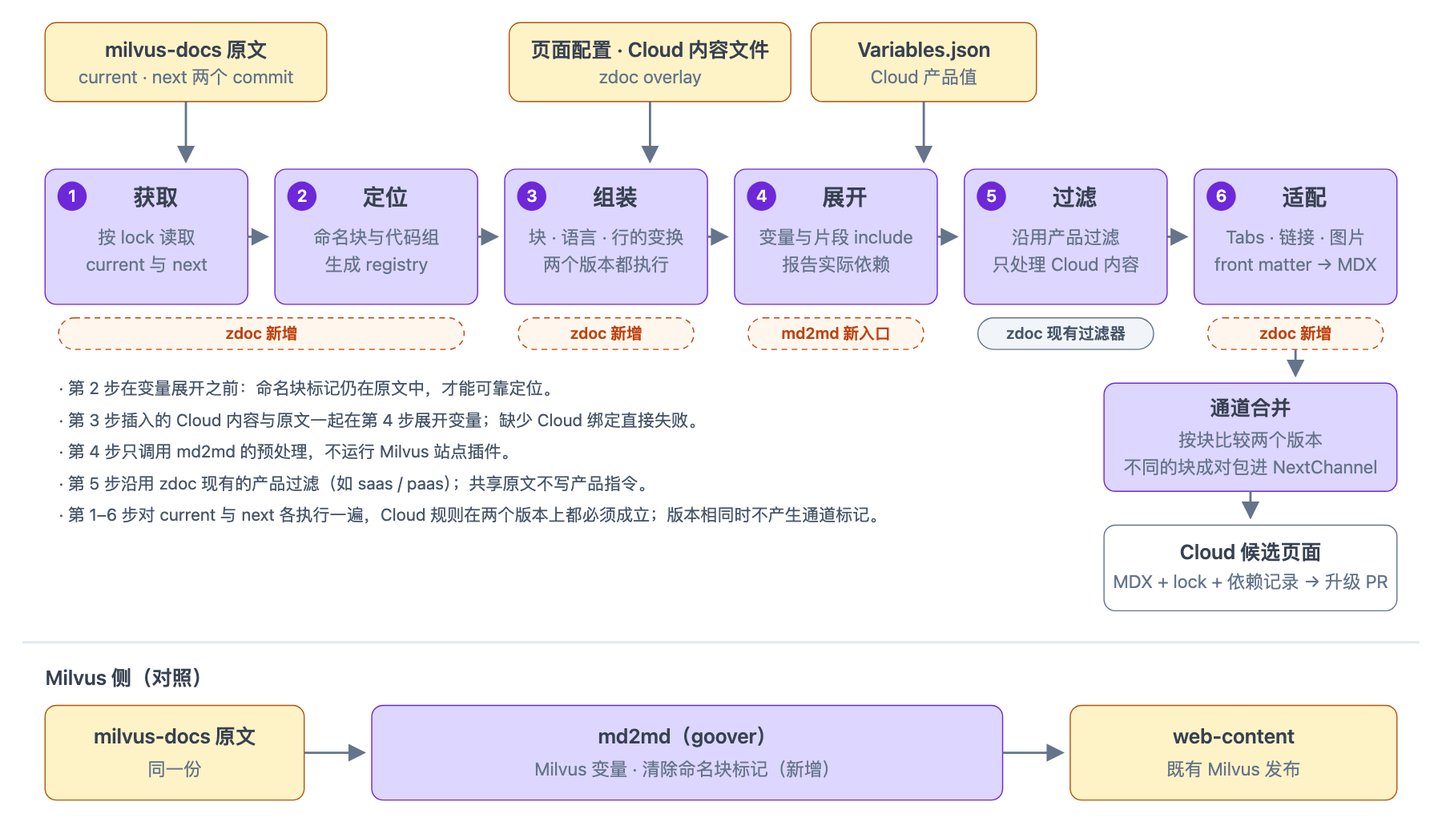
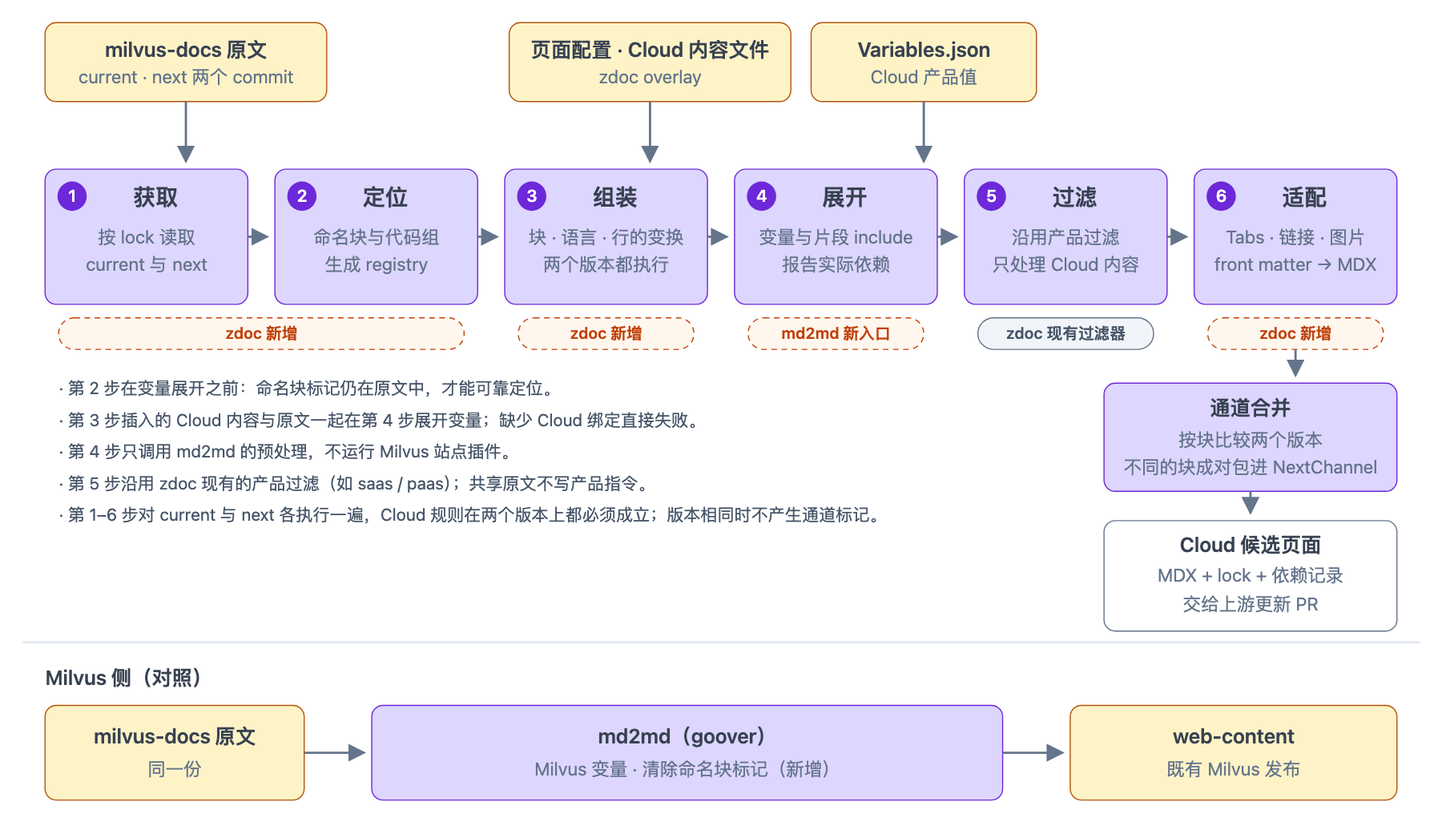
docs: restructure the proposal around the requirements
- Group the requirements into three sets with short titles and map each to a
  section in a table at the end of the overview.
- Reorder the body: one-source editing (3), controlled reuse in Cloud
  (4.1 content differences, 4.2 adopting upstream changes, 4.3 release timing),
  existing capabilities (5).
- Walk through figure 3 step by step and show file formats (YAML, Markdown,
  MDX); explain why zdoc calls the md2md preprocessing entry.
- Rename "upgrade PR" to "upstream update PR" across docs and figures.
- Rewrite section 4 for readability: conclusion first, edge cases as short
  lists, implementation rules moved to architecture.
- Turn section 7 into a compact agenda table with section links.

Changed region(s): [[0.7778, 0.6148, 0.9644, 0.7378]]

diff --git a/docs/proposal.md b/docs/proposal.md
@@ -2,11 +2,9 @@
 
 **第一次方案对齐会 · 讨论稿**
 
-本文说明为什么改、改完后大家怎样协作、工具链怎样接入，以及先从哪些页面试点。本次会议对齐方向与范围，需要拍板的事项见[第 6 节](#6-本次需要拍板的事项)；配置字段、接口签名等实现设计留到后续会议。
+本文说明为什么改、方案怎样逐条满足改造要求，以及先从哪些页面试点。本次会议对齐方向与范围，需要拍板的事项见[第 7 节](#7-本次需要拍板的事项)；配置字段、接口签名等实现设计留到后续会议。
 
 范围是 User Guide 等功能文档的共享与试点迁移。SDK Reference（原文仍在 web-content 维护）、全量迁移及飞书全面退役不属于首期。
-
-> **当前验证状态。** 方案尚未接入生产。Delete Entities 与 Filtered Search 两篇样例已在本地生成验证；真实 md2md / zdoc 接入、站点构建、发布保护与翻译接入尚未实现。现有工具链按固定源码修订核对，外部 Jenkins 的运行配置、生产权限和恢复保留策略仍待核验。依据见 [research/](../research/)。
 
 ## 1. 现状与改造要求
 
@@ -17,83 +15,112 @@
 图 1 · 现状：共享内容的三条维护路径
 - 三条路径中，只有 ③“把 Milvus 的修改抄回飞书”是虚线：它没有提醒，也没有固定检查，两边冲突时也没有约定以哪一侧为准。
 - 社区修订尚未抄回飞书时，下次从飞书导出可能把旧说明带回 Milvus，覆盖社区的修改。现有流程允许这种情况发生，尚未核实是否出现过事故。
-- 长期分开维护会造成漂移。例如 OpenAI embedding 页，两端的真实差异只有前提条件和凭证参数，但标题、示例语言和覆盖步骤也已经不同（见第 4 节）。
+- 长期分开维护会造成漂移。例如 OpenAI embedding 页，两端的真实差异只有前提条件和凭证参数，但标题、示例语言和覆盖步骤也已经不同（见[第 4.1 节](#41-内容差异cloud-的改动写在-zdocmilvus-原文只加命名块)）。
 
 ### 1.2 改造需要满足的要求
 
-1. **共享内容只有一个编辑源**，社区仍可直接提交 PR。
-2. **Cloud 自主决定何时采用上游修改**，而不是 Milvus 一合并就跟着变。
-3. **Milvus 已上线、Cloud 尚未上线的内容可以先隐藏**：沿用单镜像下的 Current / Next，UAT 可见，Prod 不显示。
-4. **能表达真实的产品差异**，例如前提条件、凭证参数和 Cloud 独有的示例。
-5. **上游新增或修改页面时，Cloud 能自动得知**，而不是靠人工发现。
-6. **不再经过飞书中转**，同时保留多语言代码、内容过滤、翻译、UAT / Prod 审核和恢复能力。
+要求分三组，共五条：
 
-后文的设计逐条对应这些要求。
+- **一处编辑**
 
-## 2. 目标：共享正文只改一处，Cloud 差异在 zdoc 维护
+  1. **milvus-docs 是唯一编辑源。** 共同内容只在这里修改；社区的修改提交到这里即可，不需要再人工抄回飞书。
+- **Cloud 可控地复用**
 
-**共享正文在 milvus-docs 维护一份，以 Git 为准；Cloud 的差异在 zdoc 中维护，飞书按页退出文档生产链。**
+  2. **Cloud 能表达差异。** 例如前提条件、凭证参数和 Cloud 独有的示例，而且不影响 Milvus 的内容。
+  3. **自动得知，自己决定采用。** 上游有修改时 Cloud 能自动得知，并决定是否采用、何时采用，而不是 Milvus 一合并就跟着变。
+  4. **未上线的功能不进 Prod。** Cloud 尚未上线的功能不出现在 Prod，但可以在 UAT 提前审阅。
+- **现有能力不丢**
 
-### 2.1 目标协作方式
+  5. **不经飞书，能力不丢。** 不再经过飞书中转，同时保留多语言代码、内容过滤、翻译、UAT / Prod 审核和恢复能力。
 
-![目标协作方式：社区贡献者和文档工程师向 milvus-docs 提交共享内容，Milvus 沿用既有发布；文档工程师在 zdoc 维护 Cloud 差异与配置。上游变化后，工具在 zdoc 自动发起升级 PR，附生成结果与影响提示；Cloud 审核后合并，新版本先在 UAT 可见，Cloud 发布时进入 Prod；暂不合并则保持已批准版本；需要修改时回到对应源文件。](./assets/collaboration-overview.png)
+这些要求在方案中的对应见[第 2 节](#2-方案总览共享正文只改一处cloud-差异在-zdoc-维护)的对应表。
+
+## 2. 方案总览：共享正文只改一处，Cloud 差异在 zdoc 维护
+
+共享正文在 milvus-docs 维护一份，以 Git 为准；Cloud 的差异在 zdoc 中维护，飞书按页退出文档生产链。
+
+下图是改造后的全貌，可与图 1 对照：两份正文合并为一份，靠人工抄回飞书的路径 ③ 不再需要。
+
+![目标协作方式：社区贡献者和文档工程师向 milvus-docs 提交共享内容，Milvus 沿用既有发布；文档工程师在 zdoc 维护 Cloud 差异与配置。上游变化后，工具在 zdoc 自动发起上游更新 PR，附生成结果与影响提示；Cloud 审核后合并，新版本先在 UAT 可见，Cloud 发布时进入 Prod；暂不合并则保持已批准版本；需要修改时回到对应源文件。](./assets/collaboration-overview.png)
 
 图 2 · 目标协作方式
-- **谁改哪里。** 共同内容改 milvus-docs，Cloud 差异和配置改 zdoc。同一位文档工程师可以两边都改；迁移后的页面不再在飞书编辑。
-- **Cloud 怎样控制发布时间（要求 2、5）。** 上游合并后，工具在 zdoc 自动发起升级 PR。合并后新版本先在 UAT 可见，Cloud 发布时才进入 Prod；不合并，两边都继续使用已批准的版本。
-- **共享原文由谁把关。** milvus-docs 的 PR 按 Milvus 既有流程审核，不需要 Cloud 参与。如果混入只适用于 Milvus 的内容，Cloud 在升级 PR 中处理：暂缓采用、请求改成两端通用的写法，或在 zdoc 中移除该段。Milvus 贡献说明届时补充共享页的写法。
+- **谁改哪里。** Cloud 文档工程师不再在飞书编辑迁移后的页面，改为在 Git 中提交 PR：共同内容改 milvus-docs，Cloud 差异和配置改 zdoc。同一位文档工程师可以两边都改；审核在 GitHub PR 中进行，结果在 PR 预览和 UAT 中查看。
+- **上游更新 PR 是 Cloud 的关口。** 上游修改不会直接进入 Cloud，要经 zdoc 中的上游更新 PR 审核后才采用（[第 4.2 节](#42-是否采用上游修改经更新-pr-审核)）。
 - **生成文件不能手改。** CI 按固定输入重新生成并比对；发现问题时，回到图中对应的源文件修改。
 
-### 2.2 Cloud 文档工程师的工作方式变化
+第 1.2 节的各项要求在方案中的对应如下，后文按这张表的顺序展开。
 
-| 事项 | 现在 | 迁移后 |
+| 要求（[第 1.2 节](#12-改造需要满足的要求)） | 方案怎样满足 | 详见 |
 |---|---|---|
-| 共享页的共同内容 | 在飞书编辑，再导出到 Milvus | 向 milvus-docs 提交 PR |
-| 共享页的 Cloud 差异 | 在飞书正文中直接改写 | 在 zdoc 维护页面配置和 Cloud 内容文件 |
-| 代码的产品差异、Current / Next 标记 | 写在飞书正文和多维表格中 | 共享页：代码行差异写在页面配置中，Current / Next 由工具按两个 commit 自动区分，不再手动标记；其余写法不变，写在 Git 中（见第 4 节） |
-| 审核与预览 | 飞书内审阅，UAT 查看结果 | GitHub PR 审核，PR 预览与 UAT 查看结果 |
-| Cloud 独有页 | 在飞书编辑 | 首期不变；终态在 zdoc 以 Markdown / MDX 维护 |
+| 1 milvus-docs 是唯一编辑源 | 共同内容只改 milvus-docs；Cloud 直接读取它的固定 commit，不再从飞书导出 | [第 3 节](#3-一处编辑cloud-直接读取-milvus-docs) |
+| 2 Cloud 能表达差异 | 差异写在 zdoc 的页面配置和 Cloud 内容文件中，原文只加命名块 | [4.1](#41-内容差异cloud-的改动写在-zdocmilvus-原文只加命名块) |
+| 3 自动得知，自己决定采用 | milvus-docs 合并后，工具自动发起上游更新 PR，Cloud 审核后合并 | [4.2](#42-是否采用上游修改经更新-pr-审核) |
+| 4 未上线的功能不进 Prod | Prod 与 UAT 各固定一个 commit，差异自动包进 `<NextChannel>` | [4.3](#43-何时上线prod-与-uat-各固定一个-commit) |
+| 5 不经飞书，能力不丢 | 校验、过滤、翻译、发布沿用 zdoc 现有流程；按页切换 | [第 5 节](#5-现有能力不丢沿用-zdoc-流程飞书按页退出) |
 
-**终态是 Cloud 文档全部在 Git 中维护。** 首期只迁移试点页。切换前需要为文档工程师准备 Markdown、配置写法和 PR 流程的说明，预览页提供跳转到源文件的编辑入口。
+## 3. 一处编辑：Cloud 直接读取 milvus-docs
 
-## 3. 工具链：在 zdoc 新增共享接入
-
-![目标工具链：Milvus 侧沿用 milvus-docs → md2md → web-content → milvus.io。zdoc 从 milvus-docs 直接读取固定版本原文，结合页面配置、Variables.json 和 Cloud 内容文件生成 Cloud 页面，经升级 PR 采用后进入 zdoc 既有的校验、过滤、Current / Next、翻译与发布流程。过渡期未迁移的飞书页和后续迁入的 Cloud 独有页也进入同一流程。虚线框标出新增工作的范围。](./assets/target-publication-chains.png)
+![目标工具链：Milvus 侧沿用 milvus-docs → md2md → web-content → milvus.io，md2md 新增两项能力：发布时清除命名块标记，以及供 zdoc 调用的预处理入口。zdoc 在 md2md 处理之前，按 commit 直接读取 milvus-docs 原文，结合页面配置（YAML）、Variables.json 和 Cloud 内容文件（Markdown）生成 Cloud 页面（MDX），生成时调用 md2md 的预处理，用 Cloud 的值展开变量与片段。生成结果在 zdoc 中经 PR 审核合并后，进入 zdoc 既有的校验、过滤、Current / Next、翻译与发布流程。过渡期未迁移的飞书页和后续迁入的 Cloud 独有页也进入同一流程。虚线框标出新增工作的范围。](./assets/target-publication-chains.png)
 
 图 3 · 目标工具链（待实施）
-- **读取点在 md2md 之前。** web-content 中的内容已经按 Milvus 的值展开了变量、清理了命名块标记，Cloud 从那里读取就无法绑定自己的值，也找不到需要差异处理的位置。所以 Cloud 直接读 milvus-docs，与 Milvus 发布链并行。
-- **新增工作只在虚线框内**：zdoc 的获取与生成，以及 md2md 的预处理入口和命名块标记清理。右侧的校验、过滤、Current / Next、翻译和发布沿用现有流程，只扩展 Git 输入（要求 3、6）。
-- **过渡期两种来源并存。** 未迁移的页面继续从飞书进入，已迁移的页面从 Git 进入，同一页任一时刻只有一个来源。
+
+图 3 按 ①–④ 的顺序读：
+
+- **① Milvus 侧流程不变。** milvus-docs 存放原文；[md2md](https://github.com/zilliztech/md2md) 展开变量与片段，并转换为 Milvus 站点格式；结果存入 web-content，再由 milvus.io 构建发布。md2md 只新增两项能力：发布时清除命名块标记，以及一个供 zdoc 调用的预处理入口。
+- **② Cloud 按 commit 读取 md2md 处理之前的原文。** web-content 里的变量已经按 Milvus 的值展开，命名块标记也已清除。Cloud 如果从那里读，就无法绑定自己的值，也找不到需要差异处理的位置。
+- **③ zdoc 生成 Cloud 页面。** 这是首期新增的部分，即图中的虚线框。输入是共享原文、页面配置（YAML）、Variables.json，以及按需提供的 Cloud 内容文件（Markdown）；生成时调用 md2md 的预处理，用 Cloud 的值展开变量与片段，两端共用同一套展开规则；输出是 Cloud 页面的 MDX。
+- **④ 在 zdoc 中经 PR 审核后发布。** 上游有变化时，由工具发起上游更新 PR（[第 4.2 节](#42-是否采用上游修改经更新-pr-审核)）；Cloud 自己的修改，由文档工程师提 PR。合并后进入 zdoc 既有的校验、过滤、翻译与发布流程（[第 5 节](#5-现有能力不丢沿用-zdoc-流程飞书按页退出)）。milvus-docs 的 PR 仍按 Milvus 既有流程审核，Cloud 不参与，而是在这一步把关；Milvus 贡献说明届时补充共享页的写法。
 
 现有工具链的对照见[附录 A](#附录-a现有发布工具链)。
 
-## 4. 差异怎样表达
+## 4. Cloud 可控地复用
 
-Milvus 与 Cloud 的差异分两类：内容不同（4.1），上线时间不同（4.2）。
+Cloud 复用共享内容时要回答三个问题：哪里和 Milvus 不同（[4.1](#41-内容差异cloud-的改动写在-zdocmilvus-原文只加命名块)），上游的修改要不要采用（[4.2](#42-是否采用上游修改经更新-pr-审核)），采用之后什么时候进入 Prod（[4.3](#43-何时上线prod-与-uat-各固定一个-commit)）。
 
-### 4.1 内容差异：写在 zdoc，原文只加命名块
+### 4.1 内容差异：Cloud 的改动写在 zdoc，Milvus 原文只加命名块
+
+按 Cloud 与 Milvus 的差异多少，页面分三类：
 
 ![三类页面：无差异的页面整篇复用，如 Delete Entities，原文把产品值写成变量，zdoc 只需一份页面配置；有差异的页面在共享正文上叠加 Cloud 差异，如 OpenAI 与 Filtered Search，原文只加命名块，zdoc 维护页面配置与 Cloud 内容文件；Cloud 独有页在 zdoc 维护完整原文，首期不迁移。](./assets/page-types.png)
 
 图 4 · 三类页面
-- **首期只处理前两类。** 无差异的页面最省事：原文把产品名等写成变量，zdoc 写一份页面配置即可。
-- **有差异的页面按差异的粒度选择写法**（要求 4），下面以 OpenAI 页展开。另一种常见差异是 Cloud 独有的整个代码示例，例如 Filtered Search 的 CLI，写成 Cloud 内容文件加入对应的代码组。
+- **无差异：整篇复用。** 例如 [Delete Entities](https://milvus.io/docs/delete-entities.md)。两端只有产品名、连接地址等值不同：Milvus 原文把它们写成变量，zdoc 写一份页面配置（YAML）引用整篇。首期 1a 先做这一类。
+- **有差异：以共享为主，局部由 Cloud 修改。** 例如 [OpenAI](https://milvus.io/docs/openai.md) 和 [Filtered Search](https://milvus.io/docs/filtered-search.md)。Milvus 原文只在 Cloud 要改动的位置加命名块，Cloud 的改动写在 zdoc，写法见图 5。首期 1b 处理这一类。
+- **Cloud 独有：不涉及共享。** 整页在 zdoc 中以 Markdown / MDX 维护，首期不迁移。
+
+有差异的页面具体怎样写，以 OpenAI 页（[Milvus 原文](https://milvus.io/docs/openai.md) / [Cloud 页面](https://docs.zilliz.com/docs/openai)）为例：
 
 ![OpenAI 页的差异：①共享正文整篇复用，产品名写成变量；②“Before you start”一节两端不同，milvus-docs 为这一节加命名块，zdoc 用 Cloud 内容文件替换；③代码中的凭证参数，milvus-docs 的代码不改，只给代码组加命名块；zdoc 页面配置中的一条 replace 规则按原文中连续的两行定位，把可选的 credential 注释换成 Cloud 必填的 integration_id。Milvus 站点与原文相同，只去掉命名块标记。](./assets/page-anatomy.png)
 
 图 5 · OpenAI 页的差异怎样表达
-- **① 和 ② 不需要在原文中写 Cloud 的内容。** 原文只给需要替换的一节加命名块（block ID），Cloud 的内容和替换规则都在 zdoc。
-- **③ 也不在原文中写 Cloud 的内容。** 凭证这类差异只有一两行，但每种 SDK 都有。zdoc 按原文中连续的整行定位，只改这几行；不必为每种语言复制整段代码，原文也不用写产品指令。
-- **③ 的定位范围很窄，出错时不会悄悄跳过。** 只在指定的代码组和语言内匹配，整行一致、恰好出现一次、最多 5 行，新行沿用原行缩进。上游改了这几行时匹配失败，升级 PR 被拦下，旧版本继续有效。差异更大时替换整个语言示例。
-- **不在原文中写 zdoc 的产品行指令**（`include-next-line`）。那样 Milvus 作者改代码时要照顾 Cloud 的行，Milvus 发布链也要新增一套与 zdoc 理解一致的过滤。
+- **Milvus 原文只加中性的命名块。** Cloud 的内容和规则都在 zdoc，Milvus 作者不需要照顾 Cloud 的写法。原文也不写 `include-next-line` 这类产品指令，否则 Milvus 发布链也要跟着过滤。
+- **按差异的粒度选写法。** ① 只有产品名不同：写成变量。② 整节不同：给这一节加命名块，用 Cloud 内容文件（Markdown）替换。③ 每种 SDK 只差一两行：在页面配置（YAML）中用 `lines` 匹配这几行，只改这几行。Cloud 独有的示例，如 Filtered Search 的 CLI，也写成 Cloud 内容文件，加进对应的代码组。
+- **匹配失败时直接报错。** 上游改了 `lines` 匹配的那几行，上游更新 PR 会被拦下（[第 4.2 节](#42-是否采用上游修改经更新-pr-审核)）；差异更大时，替换整个语言示例。
 
-### 4.2 上线时间差异：Prod 与 UAT 各固定一个 commit
+### 4.2 是否采用：上游修改经更新 PR 审核
 
-**Milvus 先改了共享页，Cloud 还没上线。** 例如，Milvus 发布小版本时，文档工程师改写了共享页 A 中 Introduction 的措辞，又新增一段介绍新参数 X。Cloud 下个月才支持 X。在此之前，Prod 应继续显示旧的 Introduction，不出现 X；UAT 则要能提前看到新内容。
+上游的修改不会直接进入 Cloud，要经过 Cloud 审核上游更新 PR。
 
-**只给改动的段落打标记，行不通。** 升级后，原文中只剩新的 Introduction。把它包进 `<NextChannel>`，Prod 上这一段会直接消失，而不是显示旧文。此外，每处改动都要先加命名块、再写规则，改动一零碎就难以维护。
+- **谁发起：** zdoc 新增的自动任务。它跟踪 milvus-docs 的新提交，只为改动涉及的已接入页面发起 PR。
+- **PR 改什么：** 把 UAT 使用的 milvus-docs commit 更新为新提交。zdoc 记录的是具体的提交编号，由工具维护；上游合并新提交不会让它变。
+- **审核看什么：** 新生成的页面和差异。Cloud 替换过的段落如果在上游有变化，即使 Cloud 页面看起来没变，也会提示复核。
+- **出错时不放过：** 命名块被删除或改名，或 `lines` 匹配的代码行被改动时，PR 直接报错，Cloud 继续使用已批准的内容。
 
-**建议：Prod 和 UAT 各固定在 milvus-docs 的一个 commit 上。** Prod 用上次 Cloud 发布时批准的 commit，UAT 用最新批准的 commit。工具用这两个 commit 各生成一遍页面：相同的段落只保留一份，不同的段落自动写成一对：
+合不合并由 Cloud 决定：
+
+| 这次上游修改 | 怎么处理 |
+|---|---|
+| 适用于 Cloud，包括还没上线的功能 | 合并。UAT 先看到，何时进入 Prod 见[第 4.3 节](#43-何时上线prod-与-uat-各固定一个-commit) |
+| 不适用于 Cloud | 请 Milvus 改成两端通用的写法，或在 zdoc 中移除、替换这一段（[第 4.1 节](#41-内容差异cloud-的改动写在-zdocmilvus-原文只加命名块)）。不要靠不合并来挡住它，否则同一页的其他修改也会被挡住 |
+| 暂时判断不了 | 先不合并，UAT 和 Prod 都保持原样 |
+
+### 4.3 何时上线：Prod 与 UAT 各固定一个 commit
+
+Prod 用上次 Cloud 发布时的 commit，UAT 用最新批准的 commit；两者不同的段落，由工具自动包进 `<NextChannel>`。
+
+**为什么需要。** 例如 Milvus 发布小版本时，文档工程师改写了共享页 A 中 Introduction 的措辞，又新增一段介绍新参数 X，而 Cloud 下个月才支持 X。在此之前，Prod 应继续显示旧的 Introduction、不出现 X，UAT 则要能提前看到新内容。只给改动的段落打标记做不到：原文里已经只剩新文，包进 `<NextChannel>` 后，Prod 上这一段会直接消失；改动零碎时，逐处加标记也难以维护。
+
+**怎样做。** 工具用两个 commit 各生成一遍页面，相同的段落只保留一份，不同的段落写成一对：
 
 ```mdx
 <NextChannel action="exclude">
@@ -111,23 +138,30 @@ Milvus 与 Cloud 的差异分两类：内容不同（4.1），上线时间不同
 </NextChannel>
 ```
 
-`exclude` 中的内容只在 Prod 显示，`include` 中的内容只在 UAT 显示，这是 zdoc 现有的用法。原文和 zdoc 都不需要手写这些标记。
+`exclude` 中的内容只在 Prod 显示，`include` 中的内容只在 UAT 显示，这是 zdoc 现有的用法；这些标记由工具生成，不需要手写。
 
 | 时间点 | UAT | Prod |
 |---|---|---|
-| 合并升级 PR 后 | 新的 Introduction 和 X | 旧的 Introduction |
+| 合并上游更新 PR 后 | 新的 Introduction 和 X | 旧的 Introduction |
 | Cloud 发布，Prod 改用 UAT 的 commit | 不变 | 与 UAT 一致，成对的标记自动消失 |
 
-规则细节见[架构设计第 4 节](./architecture.md#4-发布通道与内容过滤)。
+**两种例外：**
 
-会上需要确认：
+- **急需上线的修正**：如果这一页在 UAT 上没有等待发布的内容，合并后可以立即让 Prod 也改用新的 commit；如果有，直接推进会把未上线的内容一起带进 Prod，这时可以先在 zdoc 中临时修正，或者等到发布。
+- **Cloud 自己写的内容**：仍按现在的做法，要等下次发布才上线的部分手写 `<NextChannel>`，发布时去掉。双 commit 只处理 Milvus 原文的变化。
 
-- Cloud 的 Next 是否对应下一次 Cloud 发布；
-- 共享页的措辞修正，能否等到那时再进入 Prod。
+这一做法的两个前提列在[第 7 节](#7-本次需要拍板的事项)第 5 项，需要会上确认。
 
-## 5. 试点与路线
+## 5. 现有能力不丢：沿用 zdoc 流程，飞书按页退出
 
-![项目路线：首期分 1a 与 1b。1a 用 Delete Entities 跑通整篇复用，从固定源生成到 UAT 预览，建议年底前完成；1b 用 Filtered Search 与 OpenAI 验证差异与升级 PR，接入正式发布、翻译与恢复，并切换试点页。后续分批迁移共享页与 Cloud 独有页，依赖清零后飞书退出。](./assets/rollout-roadmap.png)
+- **沿用 zdoc 现有流程。** 生成的页面进入 zdoc 既有的校验、过滤、Current / Next、翻译、发布与恢复流程，只扩展 Git 输入。
+- **飞书按页退出。** 过渡期两种来源并存：未迁移的页面继续从飞书进入，已迁移的页面从 Git 进入，同一页任一时刻只有一个来源。首期只迁移试点页，Cloud 独有页暂不变；终态是 Cloud 文档全部在 Git 中维护。
+
+**切换前做好写作准备。** 为文档工程师准备 Markdown、配置写法和 PR 流程的说明，预览页提供跳转到源文件的编辑入口。
+
+## 6. 试点与路线
+
+![项目路线：首期分 1a 与 1b。1a 用 Delete Entities 跑通整篇复用，从固定源生成到 UAT 预览，建议年底前完成；1b 用 Filtered Search 与 OpenAI 验证差异与上游更新 PR，接入正式发布、翻译与恢复，并切换试点页。后续分批迁移共享页与 Cloud 独有页，依赖清零后飞书退出。](./assets/rollout-roadmap.png)
 
 图 6 · 项目路线
 - **1a 只走最短路径**：用不需要差异的 Delete Entities 验证真实工具链能生成完整页面，生成结果只进入预览，不写生产。
@@ -142,18 +176,18 @@ Milvus 与 Cloud 的差异分两类：内容不同（4.1），上线时间不同
 
 两篇样例的共享原文含有尚未合入 Milvus 的共同修订和语言补齐，内容与 SDK 适用性仍需审核。OpenAI 跑通后，Cohere、Voyage AI 等同类页面可以照搬。实施细节与验收见 [phase-1](./phase-1.md)。
 
-## 6. 本次需要拍板的事项
+## 7. 本次需要拍板的事项
 
-| # | 事项 | 建议 |
-|---|---|---|
-| 1 | 共享原文来源 | 读取 md2md 处理前的 milvus-docs 固定版本原文，不从 web-content 读取 |
-| 2 | 飞书退出方式与终态 | 按页切换；终态是共享页与 Cloud 独有页均在 Git 维护 |
-| 3 | 差异表达原则 | 段落、章节与代码行差异都写在 zdoc；原文只加中性命名块，不写产品指令 |
-| 4 | Current / Next | 沿用 zdoc 渲染时的通道过滤；共享页的 Prod 与 UAT 各固定在 milvus-docs 的一个 commit 上，差异由工具自动包进 `<NextChannel>`（第 4.2 节） |
-| 5 | 试点候选 | 1a 用 Delete Entities；1b 用 Filtered Search 与 OpenAI |
-| 6 | 首期范围与年底目标 | 首期按 1a、1b 推进；建议年底前完成 1a，并启动 1b |
-| 7 | 共享内容把关 | Cloud 不审核 milvus-docs PR，在升级 PR 中把关；补充 Milvus 贡献说明 |
-| 8 | 分工 | 推动者负责方案与实现；文档负责人评审 zdoc 接入与试点内容；工程顾问评审 md2md 与 Milvus 构建 |
+| # | 事项 | 建议 | 详见 |
+|---|---|---|---|
+| 1 | 共享原文来源 | 读取 md2md 处理之前的 milvus-docs 原文，不从 web-content 读取 | [第 3 节](#3-一处编辑cloud-直接读取-milvus-docs) |
+| 2 | 飞书退出方式与终态 | 按页切换；终态是 Cloud 文档全部在 Git 中维护 | [第 5 节](#5-现有能力不丢沿用-zdoc-流程飞书按页退出) |
+| 3 | 差异表达原则 | Cloud 的改动写在 zdoc，Milvus 原文只加命名块，不写产品指令 | [4.1](#41-内容差异cloud-的改动写在-zdocmilvus-原文只加命名块) |
+| 4 | 共享内容把关 | Cloud 不审核 milvus-docs PR，在上游更新 PR 中把关；补充 Milvus 贡献说明 | [4.2](#42-是否采用上游修改经更新-pr-审核) |
+| 5 | Current / Next | Prod 与 UAT 各固定一个 commit，差异由工具自动包进 `<NextChannel>`。前提：Next 对应下一次 Cloud 发布；共享页的措辞修正可以等到那时再进入 Prod | [4.3](#43-何时上线prod-与-uat-各固定一个-commit) |
+| 6 | 试点候选 | 1a 用 Delete Entities；1b 用 Filtered Search 与 OpenAI | [第 6 节](#6-试点与路线) |
+| 7 | 首期范围与年底目标 | 首期按 1a、1b 推进；建议年底前完成 1a，并启动 1b | [第 6 节](#6-试点与路线) |
+| 8 | 分工 | 推动者负责方案与实现；文档负责人评审 zdoc 接入与试点内容；工程顾问评审 md2md 与 Milvus 构建 | — |
 
 配置字段（[草案](./consumption-schema.md)）、md2md 与 zdoc 的接口、发布接入细节，在方向确认后另行讨论。
 

diff --git a/docs/consumption-schema.md b/docs/consumption-schema.md
@@ -189,7 +189,7 @@ transforms:
 
 - `lines` 从原文直接复制。比较时忽略行首缩进和行尾空格，其余必须一致；在这个语言示例中必须恰好出现一次，最多 5 行。`lines` 和 `content.lines` 中都不能有空行。
 - 新内容写在 `content.lines` 中，不需要写缩进：工具以被定位的第一行的缩进为基准，保留各行之间的相对缩进。`remove` 不提供内容。
-- 定位行尽量选不常改的行。上游改了这几行时匹配失败，这一页的升级 PR 被拦下，从新原文复制后更新 `lines` 即可。
+- 定位行尽量选不常改的行。上游改了这几行时匹配失败，这一页的上游更新 PR 被拦下，从新原文复制后更新 `lines` 即可。
 - 一段代码中有多处不同，或连续超过 5 行，改为用 3.6 节替换整个语言示例。
 - 共享原文中不写产品指令（如 `include-next-line`），Milvus 站点上看到的就是原文的代码。
 
@@ -201,7 +201,7 @@ transforms:
 | 整个页面 | 页面配置中的通道字段（**写法待定**，用来替代飞书多维表格中的 `Release Channel`） |
 | 共享原文中的变化 | 不需要写。lock 中 `current` 与 `next` 两个版本的差异由工具成对包进 `<NextChannel>` |
 
-共享原文本身不写通道标记。Cloud 上线后，Cloud 内容文件去掉包裹、整页改通道字段；共享原文的差异在提升 lock 后自动消失，规则见[架构设计第 4 节](./architecture.md#4-发布通道与内容过滤)。场景说明见[方案总览第 4.2 节](./proposal.md#42-上线时间差异prod-与-uat-各固定一个-commit)。
+共享原文本身不写通道标记。Cloud 上线后，Cloud 内容文件去掉包裹、整页改通道字段；共享原文的差异在提升 lock 后自动消失，规则见[架构设计第 4 节](./architecture.md#4-发布通道与内容过滤)。场景说明见[方案总览第 4.3 节](./proposal.md#43-何时上线prod-与-uat-各固定一个-commit)。
 
 ## 4. 什么情况会报错
 
@@ -215,7 +215,7 @@ transforms:
 - `lines` 在目标语言示例中找不到、出现多次或超过 5 行；`lines` 用在没有 `language` 的目标上。
 - 生成结果被手动修改过。
 
-新增和替换的内容同样参与变量绑定和依赖记录。原文中被替换的一节发生变化时，即使 Cloud 输出不变，升级 PR 也会提示复核。
+新增和替换的内容同样参与变量绑定和依赖记录。原文中被替换的一节发生变化时，即使 Cloud 输出不变，上游更新 PR 也会提示复核。
 
 ## 5. 待与 zdoc 维护者确定
 

diff --git a/examples/filtered-search/walkthrough.md b/examples/filtered-search/walkthrough.md
@@ -235,7 +235,7 @@ Python → Java → Go → Rust → C++ → NodeJS → cURL → Zilliz CLI
 | CLI 所在代码组、页面链接或站点元数据 | 页面 YAML |
 | 站点语言标签或 Tab 顺序 | 工程维护者调整共用展示规则 |
 
-例如，上游 PR 改变了标准过滤条件，目标工具链应提示本页受影响，文档工程师需核对 CLI 的条件是否也要更新，再审核新候选；暂缓采用时继续使用已批准版本。块 ID 改名或删除导致引用失效时，应修正原文标记或消费配置后再升级。
+例如，上游 PR 改变了标准过滤条件，目标工具链应提示本页受影响，文档工程师需核对 CLI 的条件是否也要更新，再审核新候选；暂缓采用时继续使用已批准版本。块 ID 改名或删除导致引用失效时，应修正原文标记或消费配置后再更新。
 
 **生成文件不作为编辑源，手动修改不能进入正式发布。** 这一发布保护仍待工程接入，具体要求见[首期实施与验收](../../docs/phase-1.md)。
 
